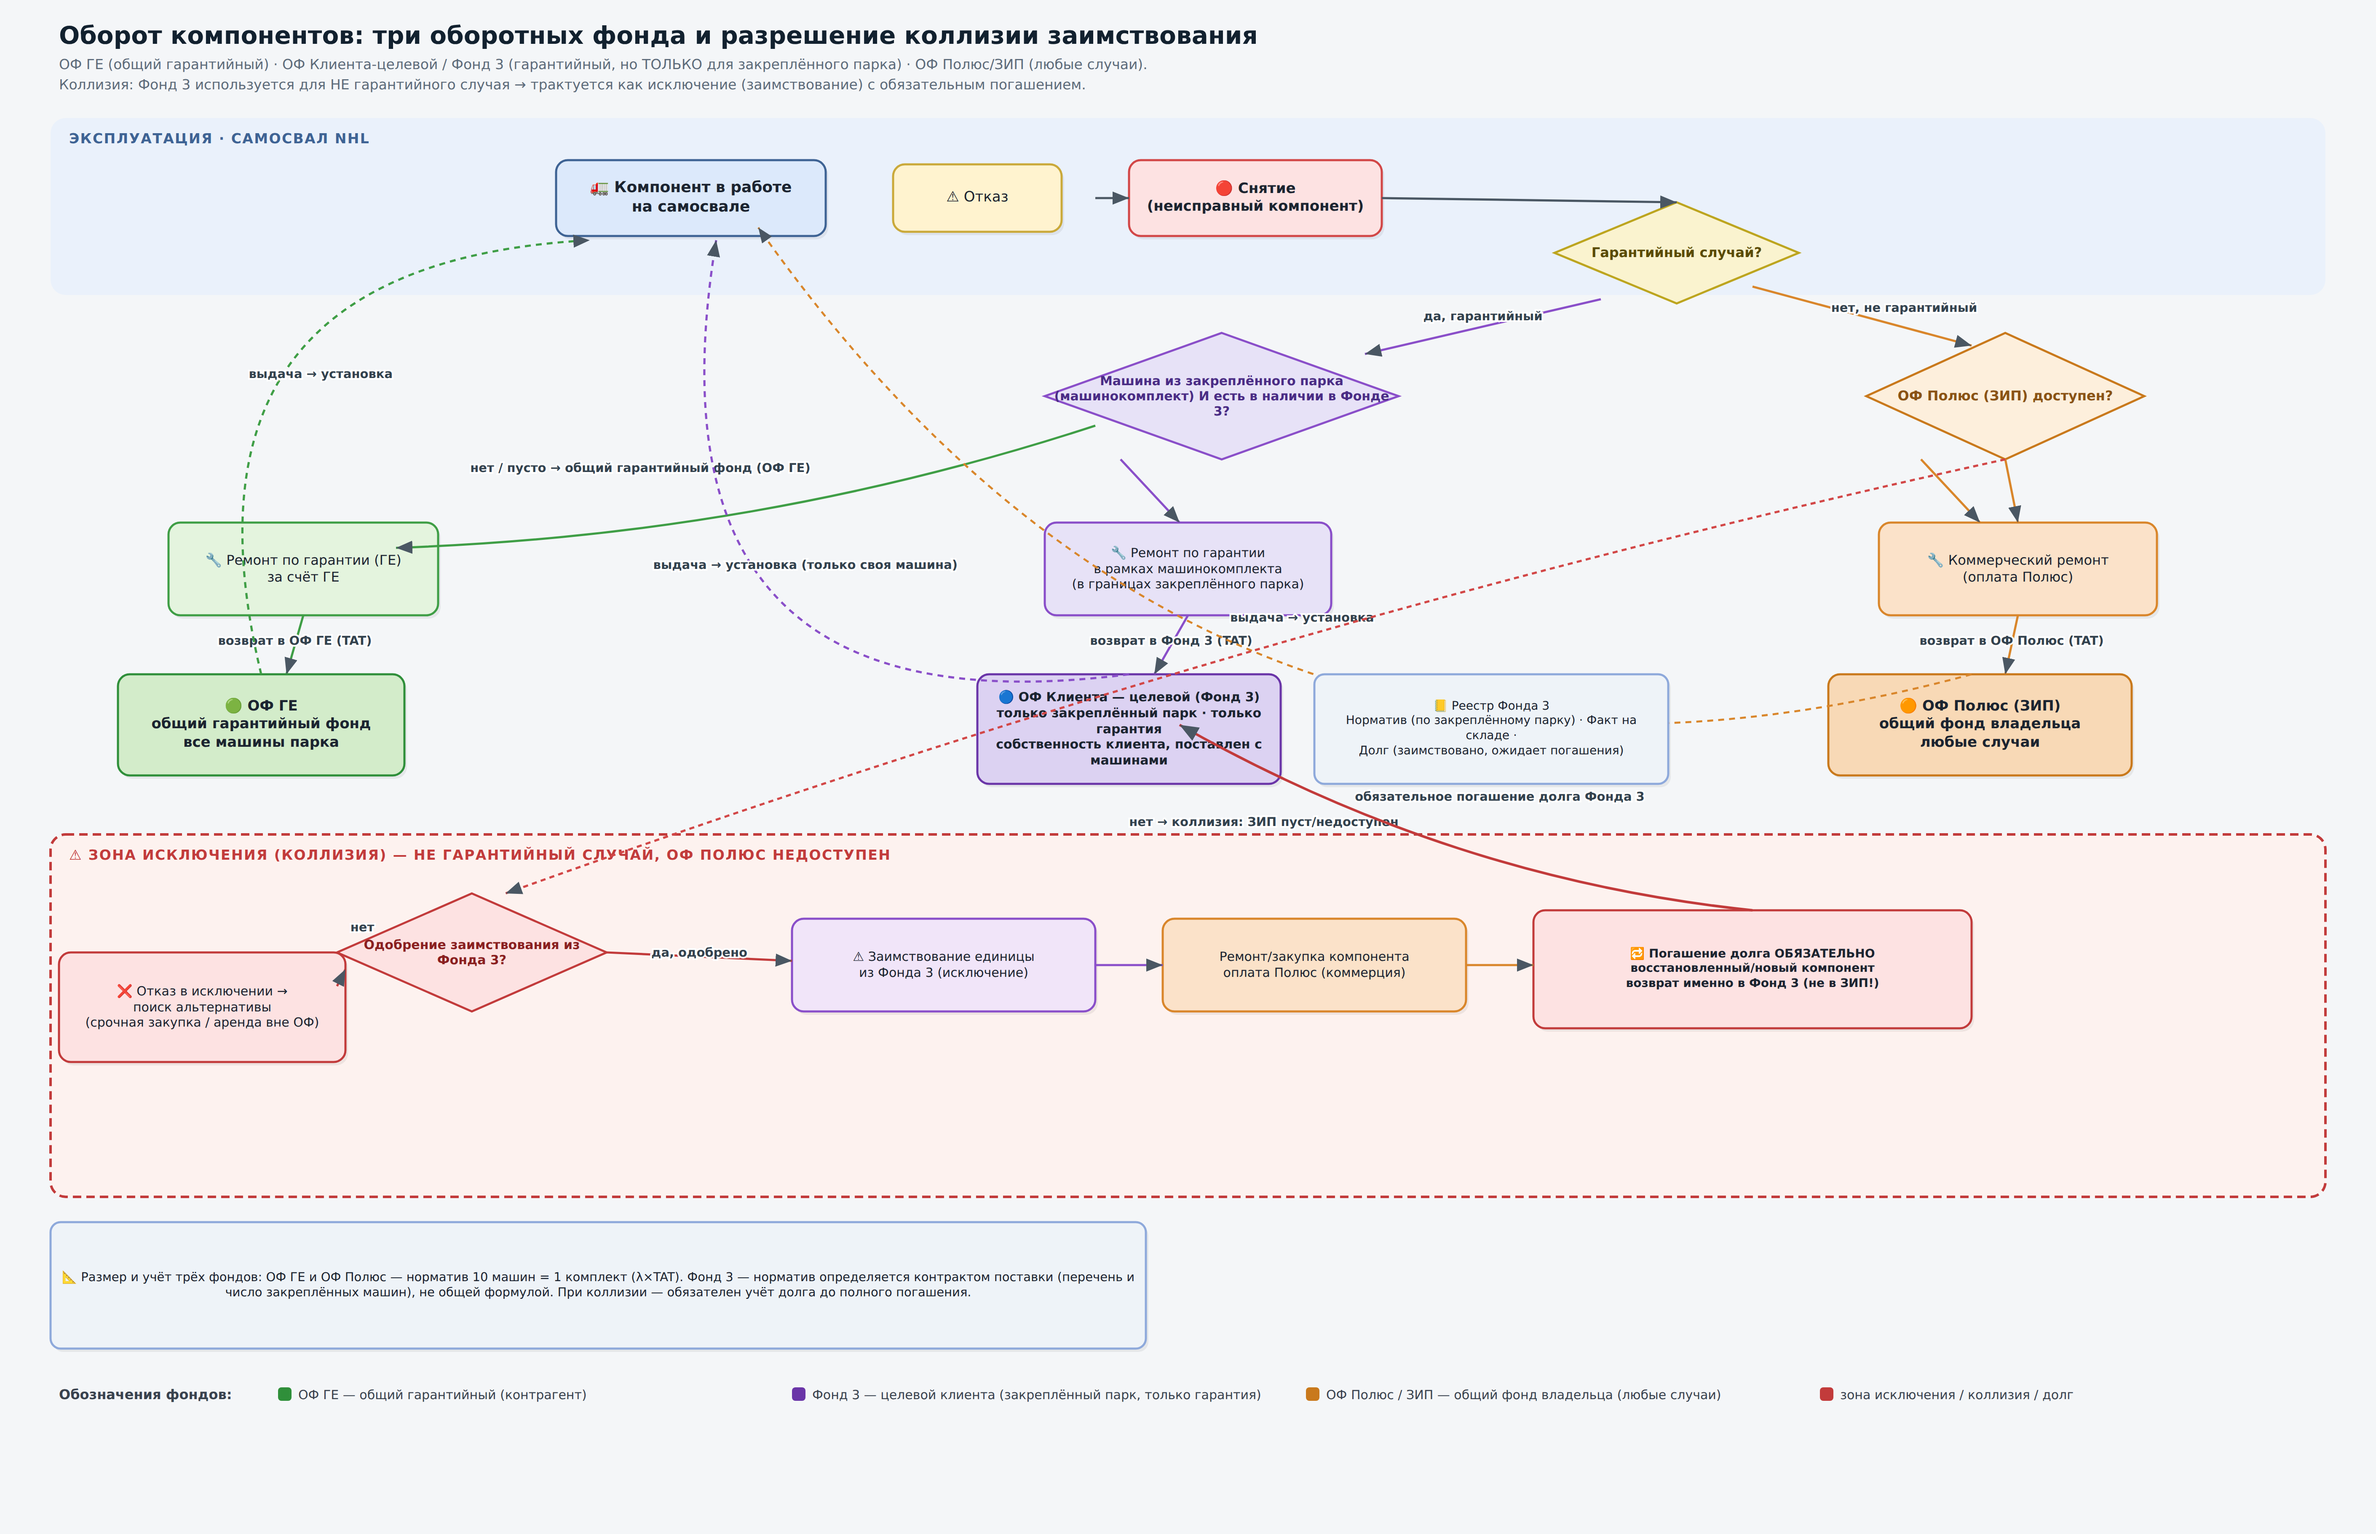
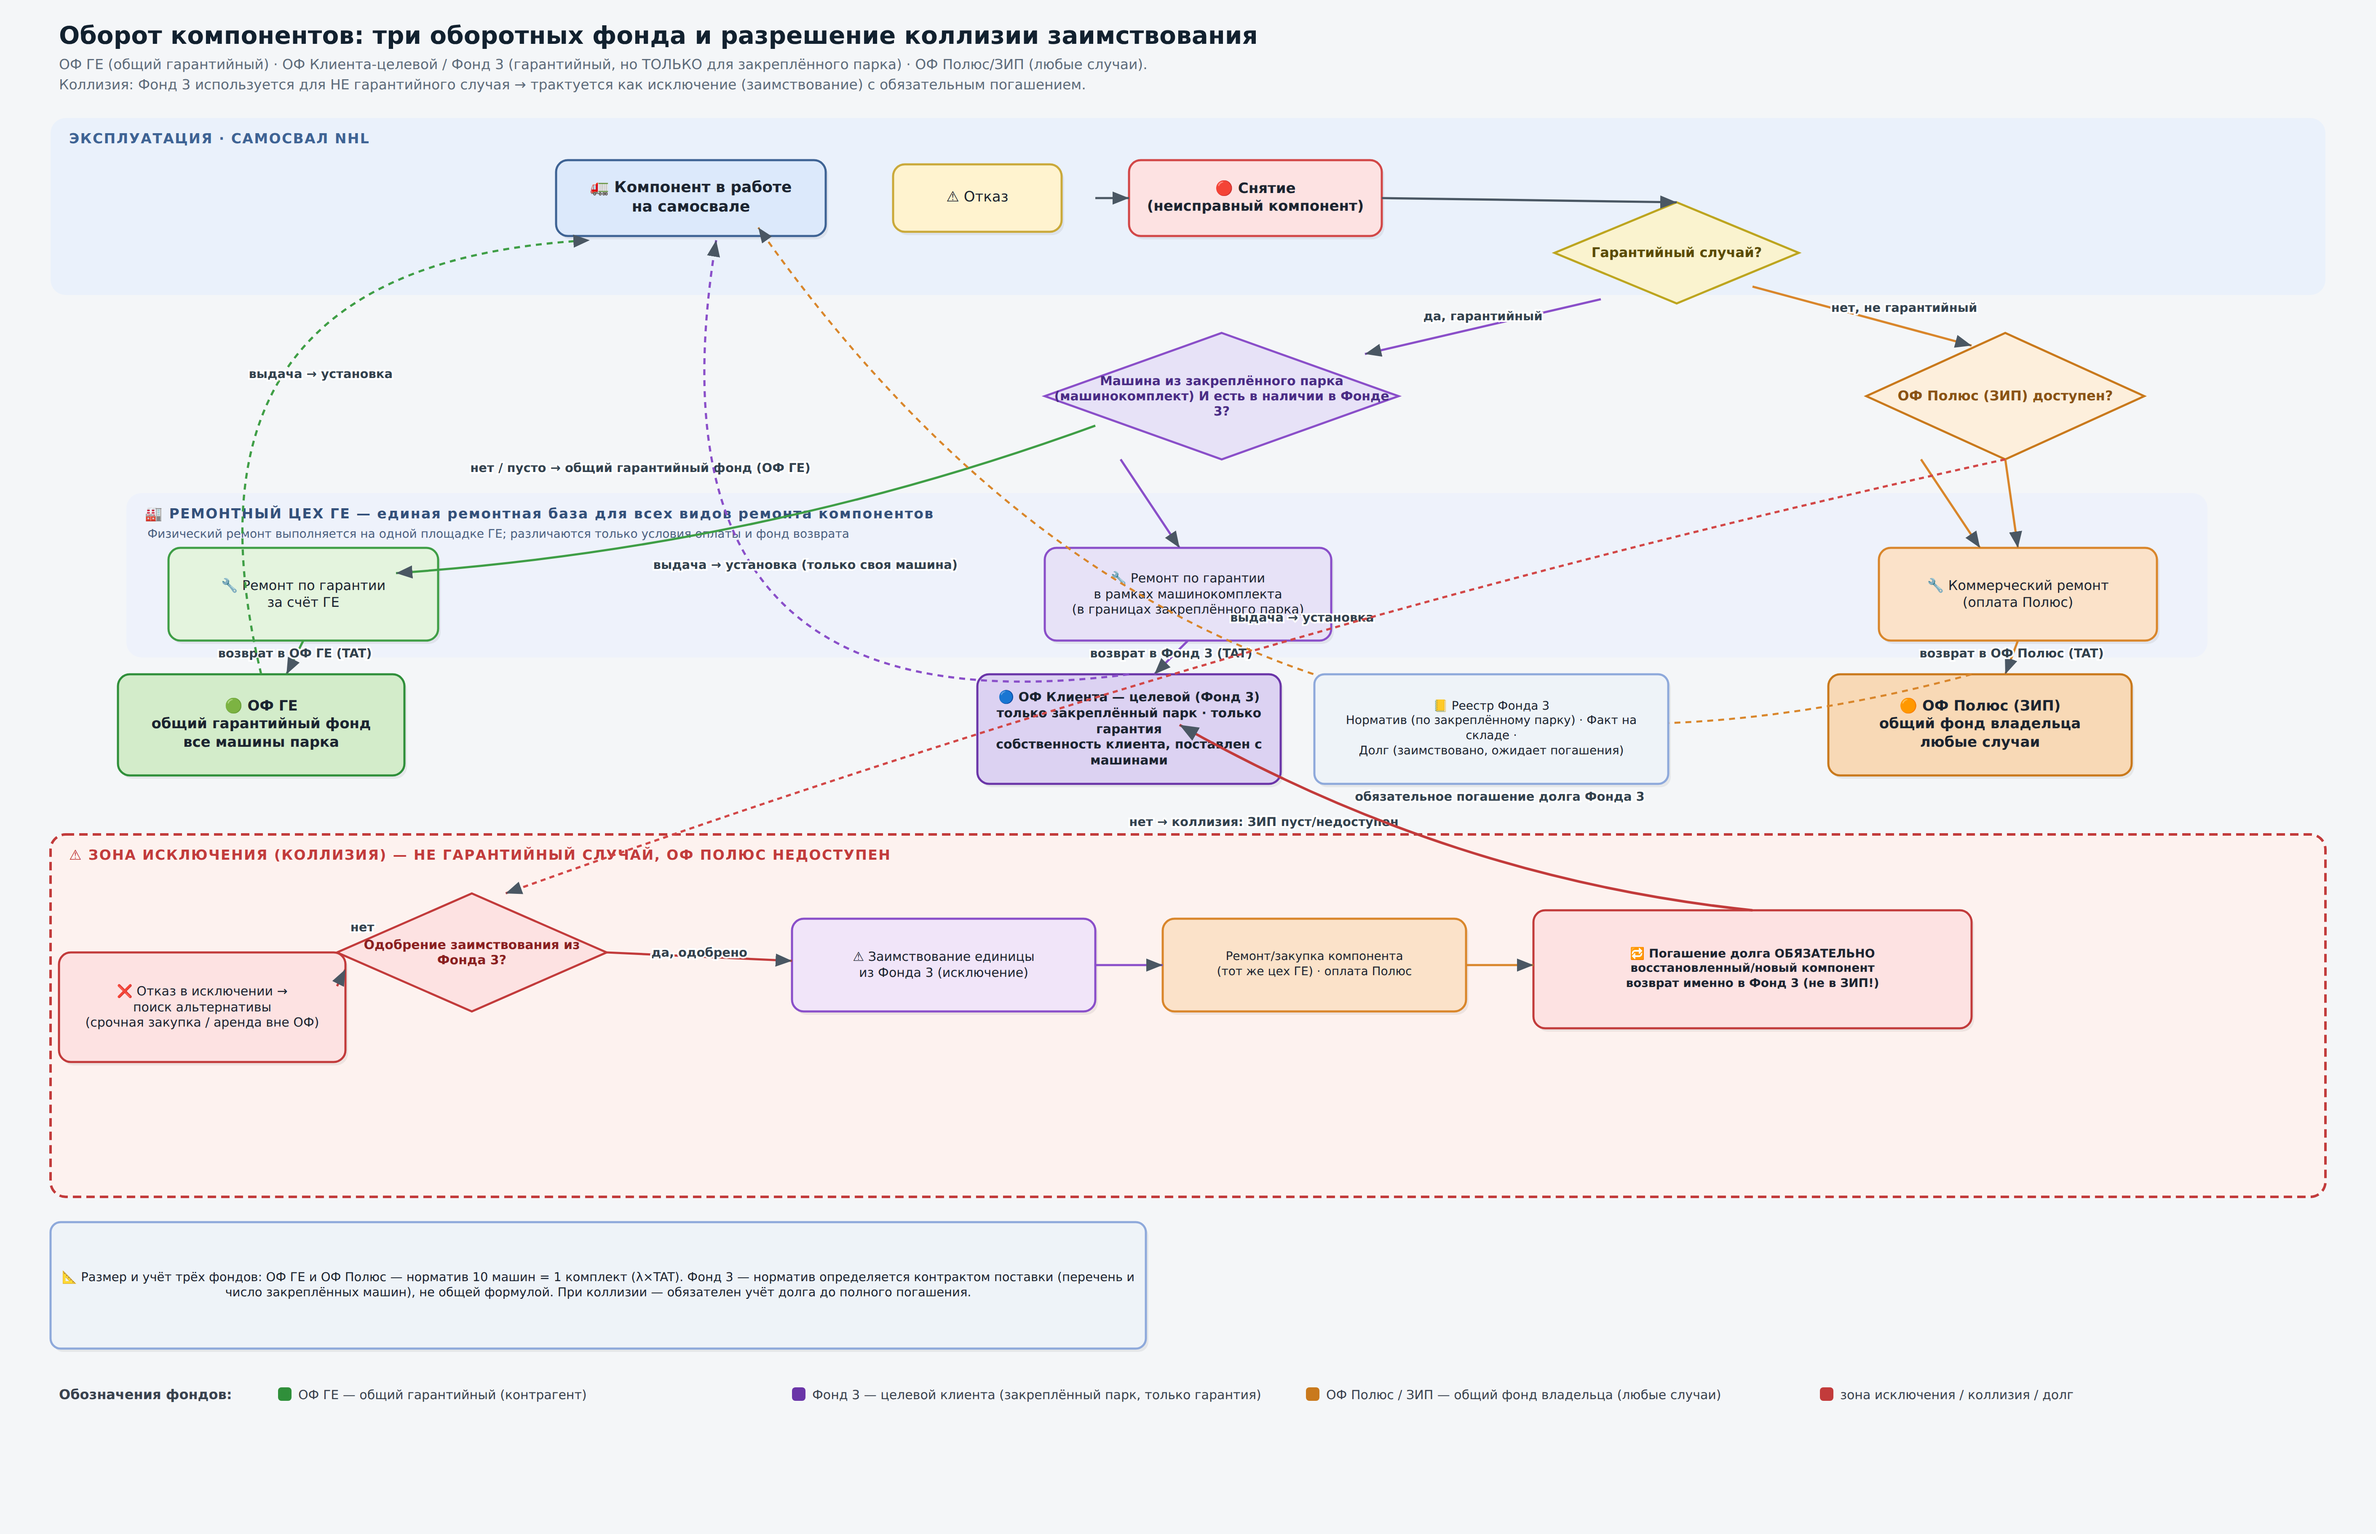
Добавлен ремонтный цех ГЕ как единая ремонтная база на схемах
Показано, что физический ремонт по всем веткам (гарантия ГЕ, гарантия в
рамках машинокомплекта/Фонд 3, коммерческий ремонт за счёт Полюс)
выполняется на одной и той же ремонтной площадке ГЕ — специализированный
ремонт крупных узлов недоступен сторонним мастерским. Различаются только
условия оплаты и фонд возврата, сам цех один. Обновлены обе схемы (2 и 3
фонда), оба Obsidian-canvas и методичка.

Claude-Session: https://claude.ai/code/session_01AMKRhFEQCXQy4JJUu2xoKr

diff --git a/Оборот компонентов — методика.md b/Оборот компонентов — методика.md
@@ -15,6 +15,8 @@ created: 2026-07-20
 
 Чтобы машина не простаивала, применяется **обмен с опережением (advance exchange)**: исправный компонент из оборотного фонда (ОФ) ставится немедленно, а снятый неисправный уходит в ремонт и после восстановления возвращается в фонд.
 
+**Ремонтный цех ГЕ — единая ремонтная база.** Физический ремонт по всем веткам (гарантийный за счёт ГЕ, гарантийный в рамках машинокомплекта, коммерческий за счёт Полюс) выполняется **на одной и той же площадке ГЕ** — это специализированный ремонт крупных узлов (ДВС, мотор-колесо, генератор, КПП, бортовой редуктор), недоступный сторонним мастерским. Различаются только **условия оплаты** и **фонд, в который компонент возвращается после ремонта** — сам цех один.
+
 ## 2. Три оборотных фонда и правило владения
 
 | Фонд | Владелец | Когда задействуется | Кто платит за ремонт | Куда возвращается компонент |
